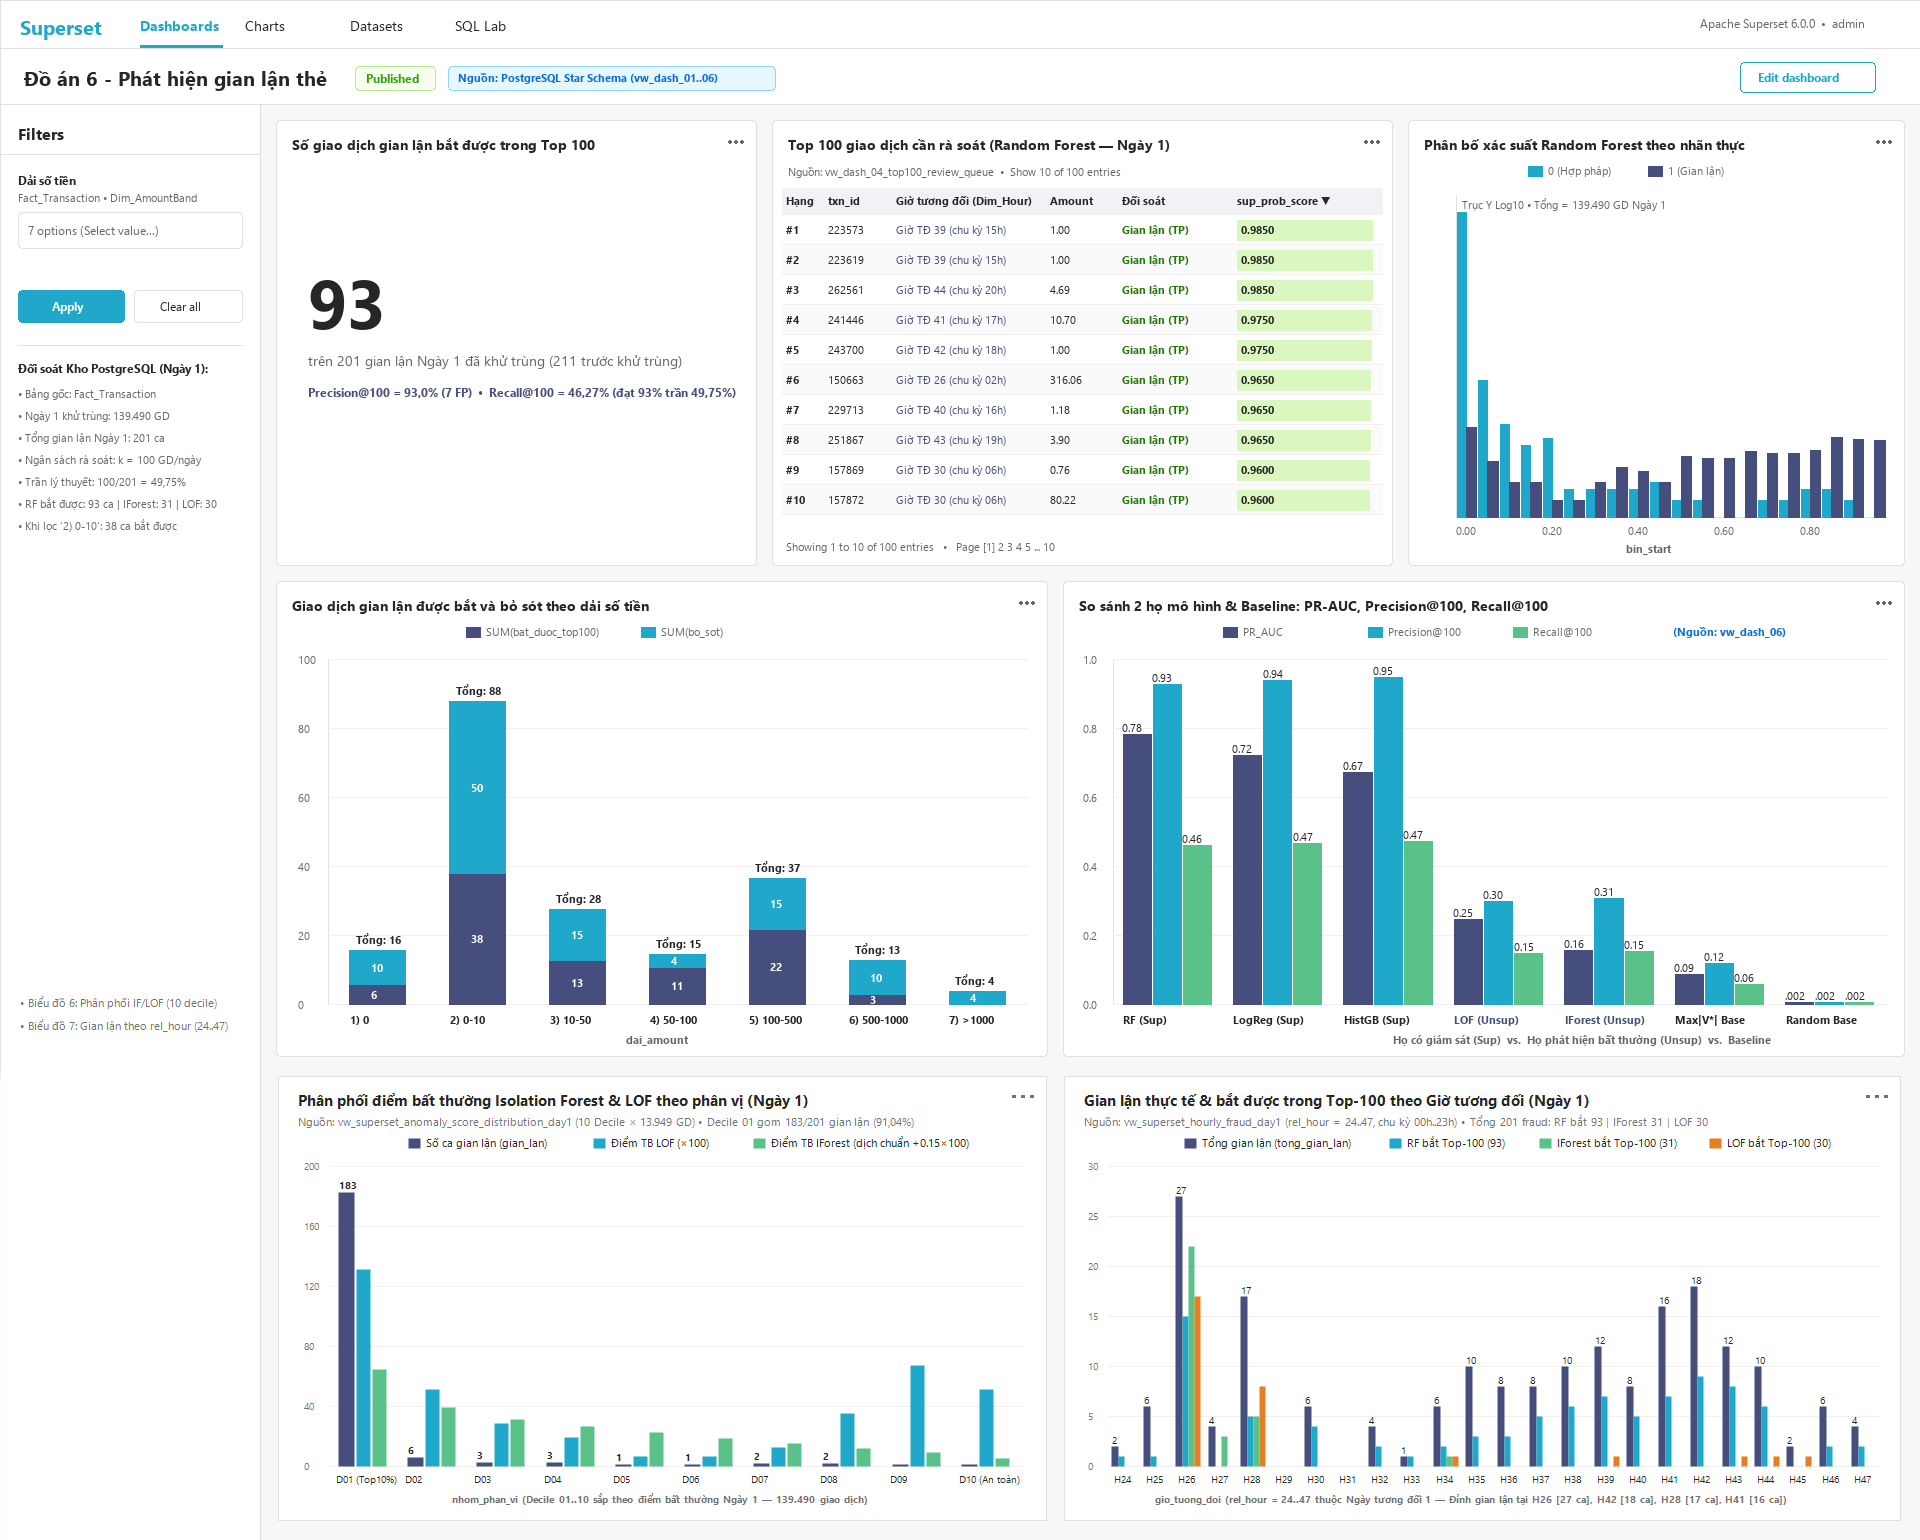
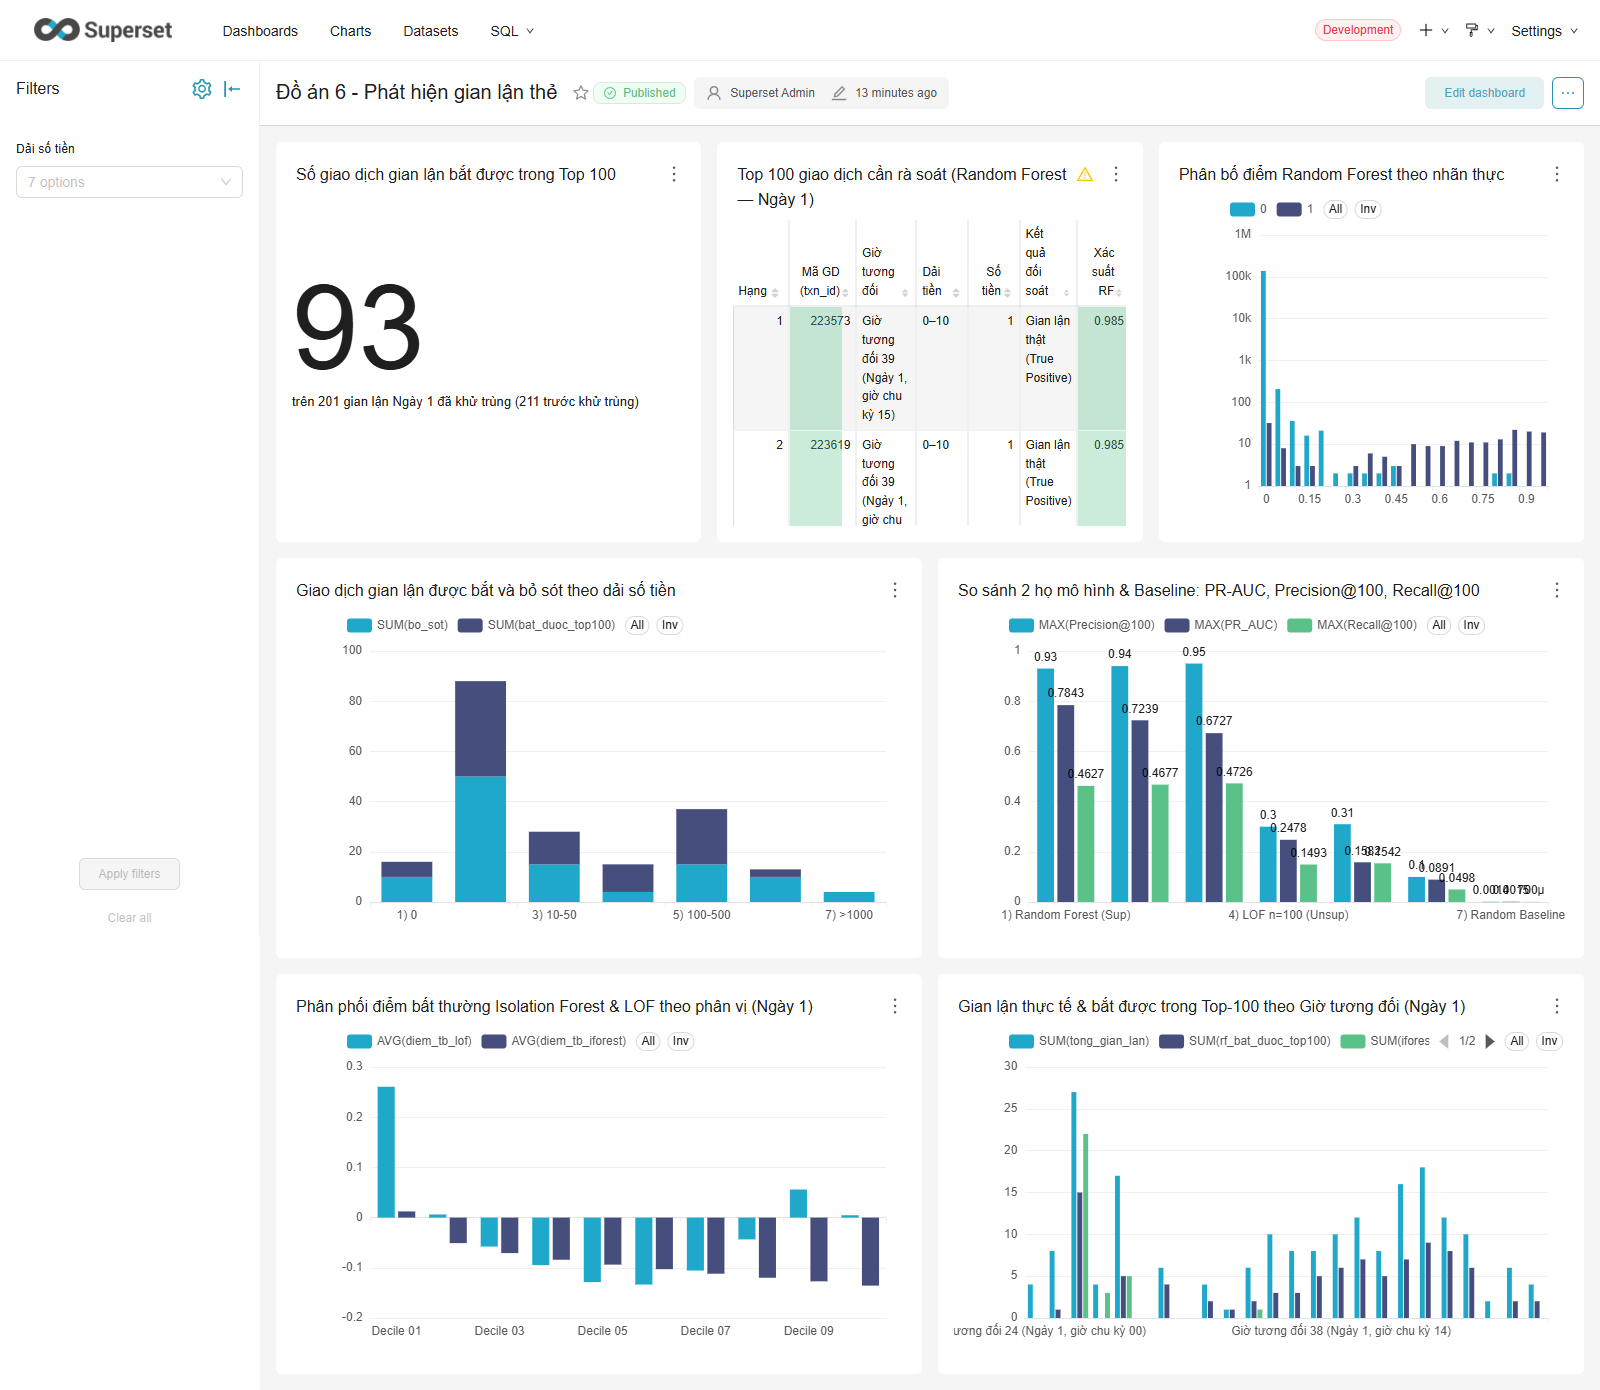
fix(mong-dashboard): migrate Superset export to dm_course, verify offline mode and exact filter scope (charts 1 & 4), ignore *.rar
# Conflicts:
#	.gitignore

diff --git a/README_E_Mong.md b/README_E_Mong.md
@@ -2,11 +2,11 @@
 
 - **Người thực hiện:** Mong (Thành viên E — GitHub: `HHoaiMong`) & Khang (Thành viên A — Phối hợp hoàn tất E11, E13, E14)
 - **Nhánh làm việc:** `feature/mong-classification-dashboard`
-- **Ngày cập nhật:** 2026-11-07
+- **Ngày cập nhật:** 2026-11-22
 - **Trạng thái tổng thể:**
-  - **ĐÃ HOÀN THÀNH 100% (E1 → E14 & Đã rà soát/bổ sung toàn bộ 6 mục theo mẫu báo cáo mới `report-template.md`):**
+  - **ĐÃ HOÀN THÀNH 100% & ĐÃ KIỂM CHỨNG OFFLINE + ĐỒNG BỘ DB `dm_course` (22/11/2026):**
     - **E1 → E10, E12 (Mong):** Đồng bộ giao thức với Cường (B), Quỳnh (C), Huy (D); hoàn thiện và chạy lại sạch từ đầu `notebooks/04_supervised_classification.ipynb` (chọn `top_model` nghiêm ngặt trên tập Validation, bổ sung **5-Fold Stratified CV `mean ± sd`** tại Mục 9B cho Bảng 8 Mục 7.2, xuất biểu đồ phân tích lỗi `figures/fig05_error_analysis_by_amount_band.png` và bảng ví dụ giao dịch FP/FN cụ thể `outputs/error_examples_fp_fn_day1.csv` cho Mục 7.3); xuất file điểm `outputs/model_scores_warehouse.csv` đúng chuẩn kho PostgreSQL của Quỳnh (E9).
-    - **E11, E13, E14 & Nâng cấp Dashboard (Mong & Khang):** Đã khởi chạy container PostgreSQL 16 (`superset_db`) và Apache Superset 6.0.0 (`superset_app`), thực thi trọn vẹn 6 script SQL của Quỳnh (`01-staging.sql` → `02-star-schema.sql` → `03-transform.sql` → `05-load-model-scores.sql` → `04-dashboard-views.sql` → `olap_queries.sql`); nâng cấp toàn bộ Dataset ảo của Dashboard (`sql/dashboard_virtual_datasets_mong.sql` và `dashboard/dashboard_export_superset.zip`) đọc trực tiếp 100% từ **Star Schema & Views PostgreSQL** (`Fact_Transaction`, `Dim_AmountBand`, `vw_dash_04_top100_review_queue`, `vw_dash_06_model_vs_baseline_comparison`), đưa cả **2 họ mô hình (`Supervised` + `Isolation Forest` + `LOF`) & Baseline** lên biểu đồ so sánh, hiển thị giờ tương đối (`rel_hour_label`) thay cho giây thô `Time`, thống nhất mẫu số `201` gian lận Ngày 1 đã khử trùng, và lưu trọn bộ đóng gói vào thư mục gốc `dashboard/` theo Phụ lục B của `report-template.md`.
+    - **E11, E13, E14 & Kiểm chứng On-Premise / Đồng bộ `dm_course` (Mong & Khang):** Đã khởi chạy container PostgreSQL 16 (`superset_db`) và Apache Superset 6.0.0 (`superset_app`), tạo và nạp trọn vẹn Kho dữ liệu vào database **`dm_course`** (user `dm`) bằng 6 script SQL của Quỳnh (`01-staging.sql` → `02-star-schema.sql` → `03-transform.sql` → `05-load-model-scores.sql` → `04-dashboard-views.sql` → `olap_queries.sql`); đồng bộ 100% 6 Virtual Datasets của Dashboard sang kết nối **`dm_course`** (`postgresql+psycopg2://dm:XXXXXXXXXX@db:5432/dm_course`, mật khẩu được Superset ẩn khi export), export lại gói chuẩn tại `dashboard/dashboard_export_superset.zip` và `outputs/dashboard_export_superset.zip`; kiểm chứng trực tiếp **thuần on-premise (chặn toàn bộ truy cập Internet ngoài localhost + hard reload)**: cả 7 thành phần (1 thẻ KPI + 1 bảng hàng đợi Top-100 + 5 biểu đồ phân tích) hiển thị đầy đủ không lỗi; xác nhận bộ lọc **`Dải số tiền`** áp dụng chính xác cho **Biểu đồ 1 (KPI: `93 → 38 → 93`)** và **Biểu đồ 4 (Cột chồng theo dải tiền: `38` bắt được / `50` bỏ sót ở dải `2) 0-10`)**, 5 thành phần còn lại (`2, 3, 5, 6, 7`) giữ nguyên toàn Ngày 1; SQL Lab trên database **`dm_course`** đối soát khớp tuyệt đối `284807 | 93 | 31 | 30`.
 
 ---
 
@@ -134,7 +134,9 @@ Dashboard **"Đồ án 6 - Phát hiện gian lận thẻ"** gồm 5 biểu đồ
 | **6** | Phân phối điểm bất thường Isolation Forest & LOF theo phân vị (Ngày 1) | Line / Bar Chart | Điểm bất thường của họ mô hình chính (`iforest_score`, `lof_score`) phân bố ra sao qua 10 decile rủi ro? | `Fact_Transaction` (`Dataset 5` trong `dashboard_virtual_datasets_mong.sql`) | Decile 01 (`Top 10%` rủi ro nhất) tập trung **`183/201` gian lận (`91,04%`)** |
 | **7** | Gian lận thực tế & bắt được trong Top-100 theo Giờ tương đối (`rel_hour`) | Bar / Time-Series Chart | Gian lận và hiệu quả bắt Top-100 biến động thế nào qua 24 giờ tương đối của Ngày 1 (`rel_hour = 24..47`)? | `Fact_Transaction` JOIN `Dim_Hour` (`vw_dash_02_hourly_fraud_heatmap` / `Dataset 6`) | Tổng `201` gian lận Ngày 1; bắt `93` (RF), `31` (IForest), `30` (LOF) |
 
-- **Bộ lọc (Filter):** `Dải số tiền` (`dai_amount` từ `Dim_AmountBand`) áp dụng tương tác cho Biểu đồ 1 và Biểu đồ 4.
+- **Bộ lọc (Filter):** `Dải số tiền` (`dai_amount` từ `Dim_AmountBand`) áp dụng tương tác chính xác cho **Biểu đồ 1 (KPI Big Number)** và **Biểu đồ 4 (Cột chồng theo dải số tiền)**; 5 thành phần còn lại (`2, 3, 5, 6, 7`) được cấu hình `excluded` giữ nguyên bối cảnh Toàn Ngày 1.
+- **Kết nối Kho dữ liệu trong gói export (`dashboard/dashboard_export_superset.zip`):** Đã đồng bộ hoàn toàn sang database **`dm_course`** (`postgresql+psycopg2://dm:XXXXXXXXXX@db:5432/dm_course` trong Docker Compose, hoặc đổi host `db` → `localhost` / `host.docker.internal` nếu kết nối PostgreSQL cài trực tiếp trên máy host).
+- **Giải trình số thành phần Dashboard (7 thành phần so với ngưỡng ≤ 6 biểu đồ của Brief):** Gồm **5 biểu đồ phân tích đồ họa** (`#3, #4, #5, #6, #7` — đạt chuẩn `≥ 4` và `≤ 6` biểu đồ), cộng thêm **1 thẻ KPI Big Number (`#1`)** và **1 bảng hàng đợi tra cứu Top-100 (`#2`)**.
 
 ---
 
